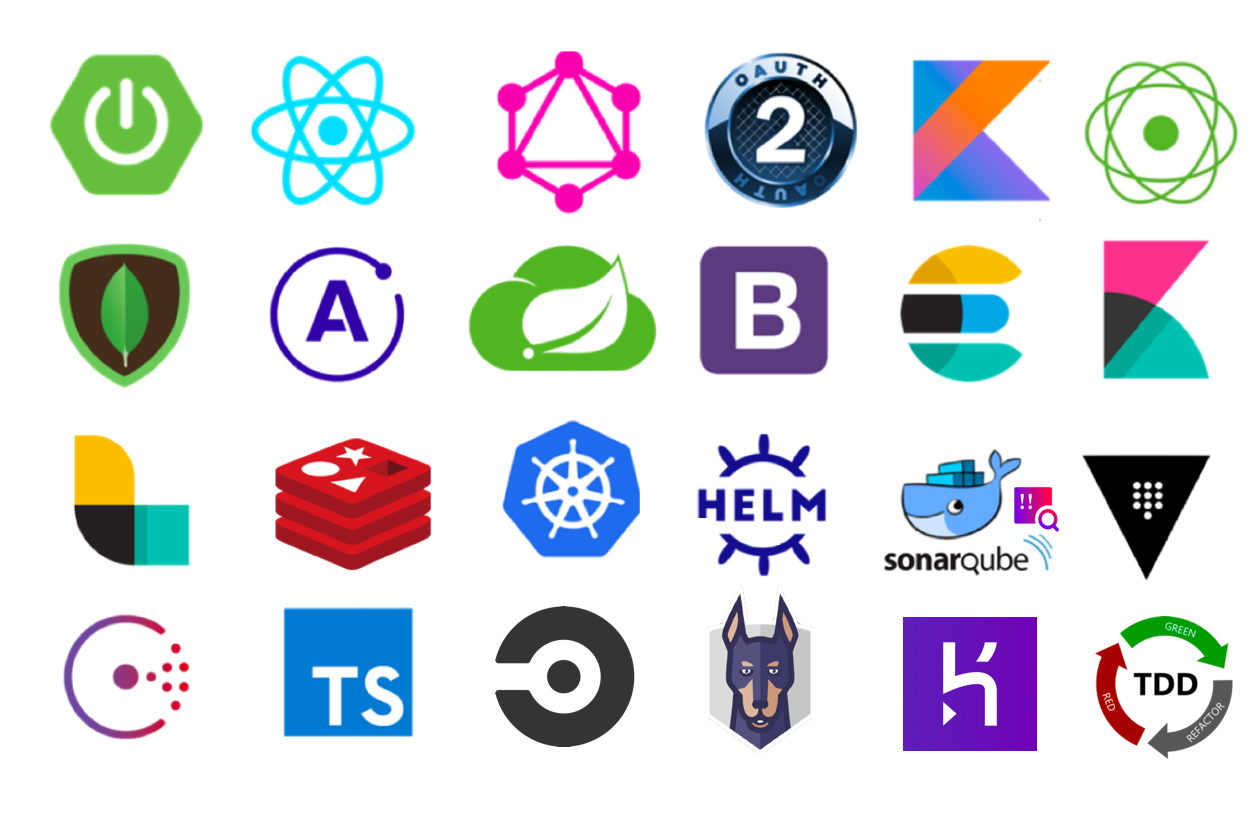
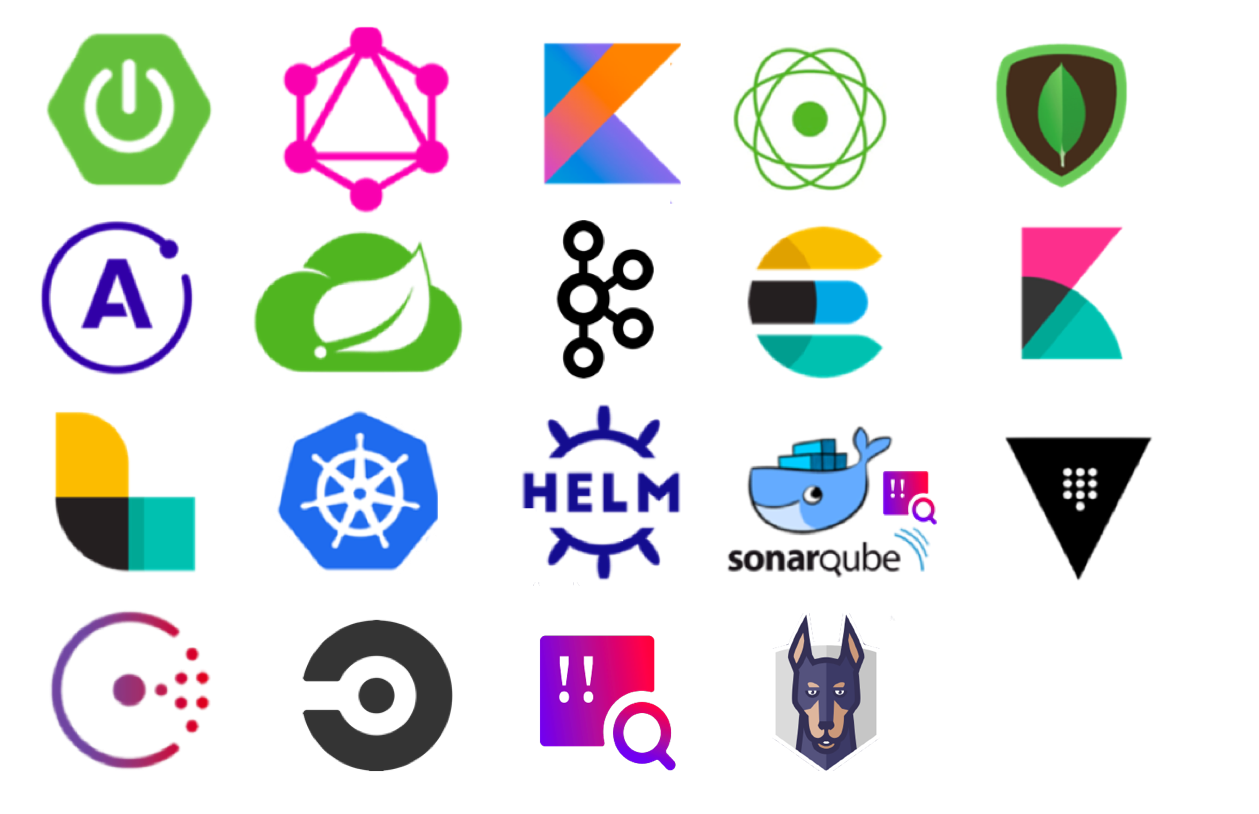
fix README.md

diff --git a/README.md b/README.md
@@ -1,15 +1,9 @@
-# Graphql  Microservice Application With Saga Pattern
+# Graphql  Microservice Application With Choreography-based Saga Pattern
 
-Graphql Microservice Application With Saga pattern
+Graphql Microservice Application With Choreography-based Saga Pattern
 
-Data Flow
-The Order Service application takes in an Order as a request, which creates and sends an OrderPurchaseEvent to the Kafka topic orders which is processed by OrderPurchaseEventHandler in the payment service.
-OrderPurchaseEventHandler processes the event and calculates if user has enough credit. If so, it sets the generated PaymentEvent status to APPROVED, otherwise DECLINED.
-A PaymentEvent is emitted to the Kafka topic payments, which the PaymentEventHandler in the Payment Service application listens for.
-If the PaymentEvent status is APPROVED, it saves the transaction in the TransactionRepository. A TransactionEvent is emitted to the transactions topic.
-The TransactionEventConsumer reads this in the order service, if successful, the OrderRepository saves this as ORDER_COMPLETED, else ORDER_FAILED
 
-<img src="https://github.com/susimsek/GraphqlMicroserviceTdd/blob/main/images/introduction.png" alt="Graphql Fullstack Microservice App" width="100%" height="100%"/> 
+<img src="https://github.com/susimsek/GraphqlMicroserviceSagaPattern/blob/main/images/introduction.png" alt="Graphql  Microservice Application With Choreography-based Saga Pattern" width="100%" height="100%"/> 
 
 # Graphql
 
@@ -20,41 +14,13 @@ It can even be deployed within an integrated development environment (IDE) known
 As an alternative to REST, GraphQL lets developers construct requests that pull data from multiple data sources in a
 single API call.
 
-# OAuth2 Authorization Server
-We are using oauth2 authorization server to secure the application.
+# Data Flow
 
-<img src="https://github.com/susimsek/GraphqlMicroserviceTdd/blob/main/images/auth-server.png" alt="Spring Boot Authorization Server" width="100%" height="100%"/>
-
-To log in to your app, you'll need to have Spring OAuth2 Authorization Server up and running.
-
-The OAuth2 Authorization Server can be accessed from this link via kubernetes.  
-http://auth.susimsek.github.io
-
-The OAuth2 Authorization Server can be accessed from this link via heroku.  
-https://graphql-fullstack-auth-service.herokuapp.com
-
-The default user credentials information is as follows. 
-You can log in to the authorization server using that credential information or login to the authorization server with gmail.
-
-
-```sh
-username: admin
-password: password
-```
-
-# Application
-
-The GraphQL Fullstack application can be accessed from this link.  
-http://gqlmsweb.susimsek.github.io
-
-## Dashboard
-<img src="https://github.com/susimsek/GraphqlMicroserviceTdd/blob/main/images/ui-dashboard.png" alt="Graphql Fullstack Microservice App Dashboard" width="100%" height="100%"/>   
-
-## Product Page
-<img src="https://github.com/susimsek/GraphqlMicroserviceTdd/blob/main/images/ui-product-page.png" alt="Graphql Fullstack Microservice App Product Page" width="100%" height="100%"/>  
-
-## Login Page
-<img src="https://github.com/susimsek/GraphqlMicroserviceTdd/blob/main/images/ui-login-page.png" alt="Graphql Fullstack Microservice App Login Page" width="100%" height="100%"/>
+The Order Service application takes in an Order as a request, which creates and sends an OrderPurchaseEvent to the Kafka topic orders which is processed by OrderPurchaseEventHandler in the payment service.  
+OrderPurchaseEventHandler processes the event and calculates if user has enough credit. If so, it sets the generated PaymentEvent status to APPROVED, otherwise DECLINED.  
+A PaymentEvent is emitted to the Kafka topic payments, which the PaymentEventHandler in the Payment Service application listens for.  
+If the PaymentEvent status is APPROVED, it saves the transaction in the TransactionRepository. A TransactionEvent is emitted to the transactions topic.  
+The TransactionEventConsumer reads this in the order service, if successful, the OrderRepository saves this as ORDER_COMPLETED, else ORDER_FAILED  
 
 # Development
 
@@ -96,24 +62,6 @@ You can run the apollo gateway(accessible on http://127.0.0.1:4000) by typing th
 npm run start:dev
 ```
 
-## Prerequisites for Frontend
-
-* Nodejs 14+
-
-### Run the app
-
-You can install the dependencies by typing the following command
-
-```sh
-npm install
-```
-
-You can run the react app(accessible on http://127.0.0.1:3000) by typing the following command
-
-```sh
-npm start
-```
-
 # Supergraph Composition
 
 ## Prerequisites
@@ -144,14 +92,6 @@ You can test code quality locally via sonarqube by typing the following command
 npm run sonar
 ```
 
-## Code Quality For Frontend
-
-You can test code quality locally via sonarqube by typing the following command
-
-```sh
-npm run sonar
-```
-
 # Detekt
 
 Detekt a static code analysis tool for the Kotlin programming language  
@@ -160,16 +100,6 @@ You can run detekt by typing the following command
 
 ```sh
 mvn antrun:run@detekt
-```
-
-# Caching
-
-Redis is an Open Source, in-memory data structure store that can be used as a performant caching solution Depending on your configuration, you can choose to use Redis as a single server node or as a distributed cache   
-
-Default cache expire time is 1 hour but you can change it via vault by changing the following environment variable
-
-```sh
-CACHE_EXPIRATION=3600s
 ```
 
 # Docker
@@ -182,14 +112,6 @@ The docker image of microservice can be built as follows:
 
 ```sh
 mvn -Pjib verify jib:dockerBuild
-```
-
-## Build Docker Image for Frontend
-
-The docker image of ui can be built as follows:
-
-```sh
-docker build -t web .
 ```
 
 ## Deployment with Docker Compose
@@ -219,9 +141,6 @@ You can uninstall app the following bash command
 
 The Fullstack GraphQL App be accessed with nginx from the link below.  
 http://127.0.0.1
-
-The OAuth2 Authorization Server be accessed from the link below.  
-http://127.0.0.1:9000
 
 
 ## Deployment Kubernetes with Helm
@@ -254,11 +173,8 @@ following bash command
  ./deploy.sh -u
 ```
 
-The Fullstack GraphQL App be accessed with ingress from the link below.(default nginx ingress)  
+The app be accessed with ingress from the link below.(default nginx ingress)  
 http://gqlmsweb.susimsek.github.io
-
-The OAuth2 Authorization Server be accessed with ingress from the link below. (default nginx ingress)  
-http://auth.susimsek.github.io
 
 # Used Technologies
 ## Backend Side
@@ -270,53 +186,26 @@ http://auth.susimsek.github.io
 * Helm
 * Sonarqube
 * Detekt
-* Heroku(only Authorization Server)
 * Circleci
 * Snyk
+* Kafka
 * Vault
 * Consul
 * Nginx
 * Mongodb
-* Redis(for Caching)
 * Elasticsearch
 * Kibana
 * Logstash
 * Apollo Gateway
 * Spring Boot
 * Spring Cloud
-* Spring Boot Web(only Authorization Server)
 * Spring Boot Web Flux
 * Spring Boot Graphql
 * Spring Boot Validation
-* Spring Boot Security
-* Spring Security OAuth2 Authorization Server
-* Spring Security OAuth2 Resource Server
-* Spring Security OAuth2 Client
-* Spring Boot Thymeleaf
+* Spring Cloud Stream
 * Spring Boot Actuator
 * Spring Boot Configuration Processor
+* Kotlinx Coroutines Reactor
 * Federation Graphql Java Support
 * Logstash Logback Encoder
 * Querydsl
-
-## Backend Side for TDD
-* Testcontainers
-* Spring Boot Test
-* Spring Security Test
-* Spring Graphql Test
-* Kotlin Test Junit
-* Mockito Kotlin
-* Reactor Test
-
-## Frontend Side
-* React
-* React Router
-* React Router Dom
-* Typescript
-* Apollo Client
-* Graphql
-* Graphql Codegen
-* Axios
-* Bootstrap
-* React Bootstrap
-* Crypto js
